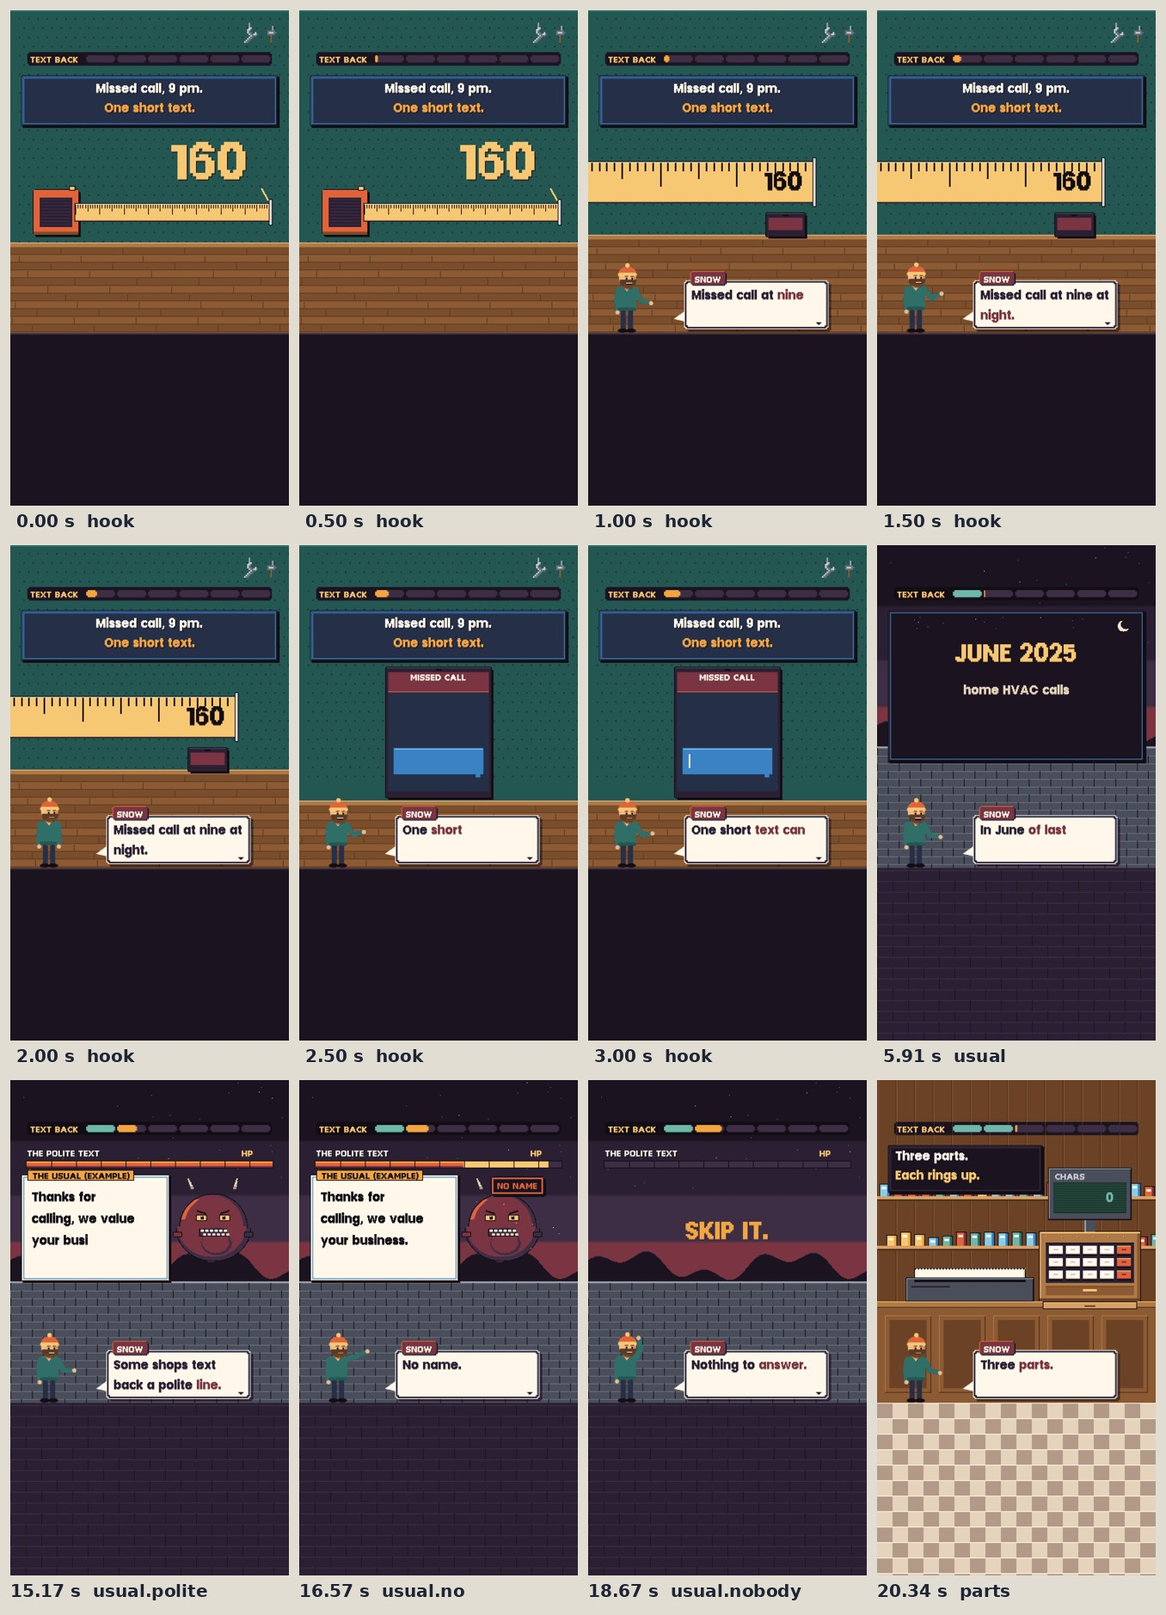
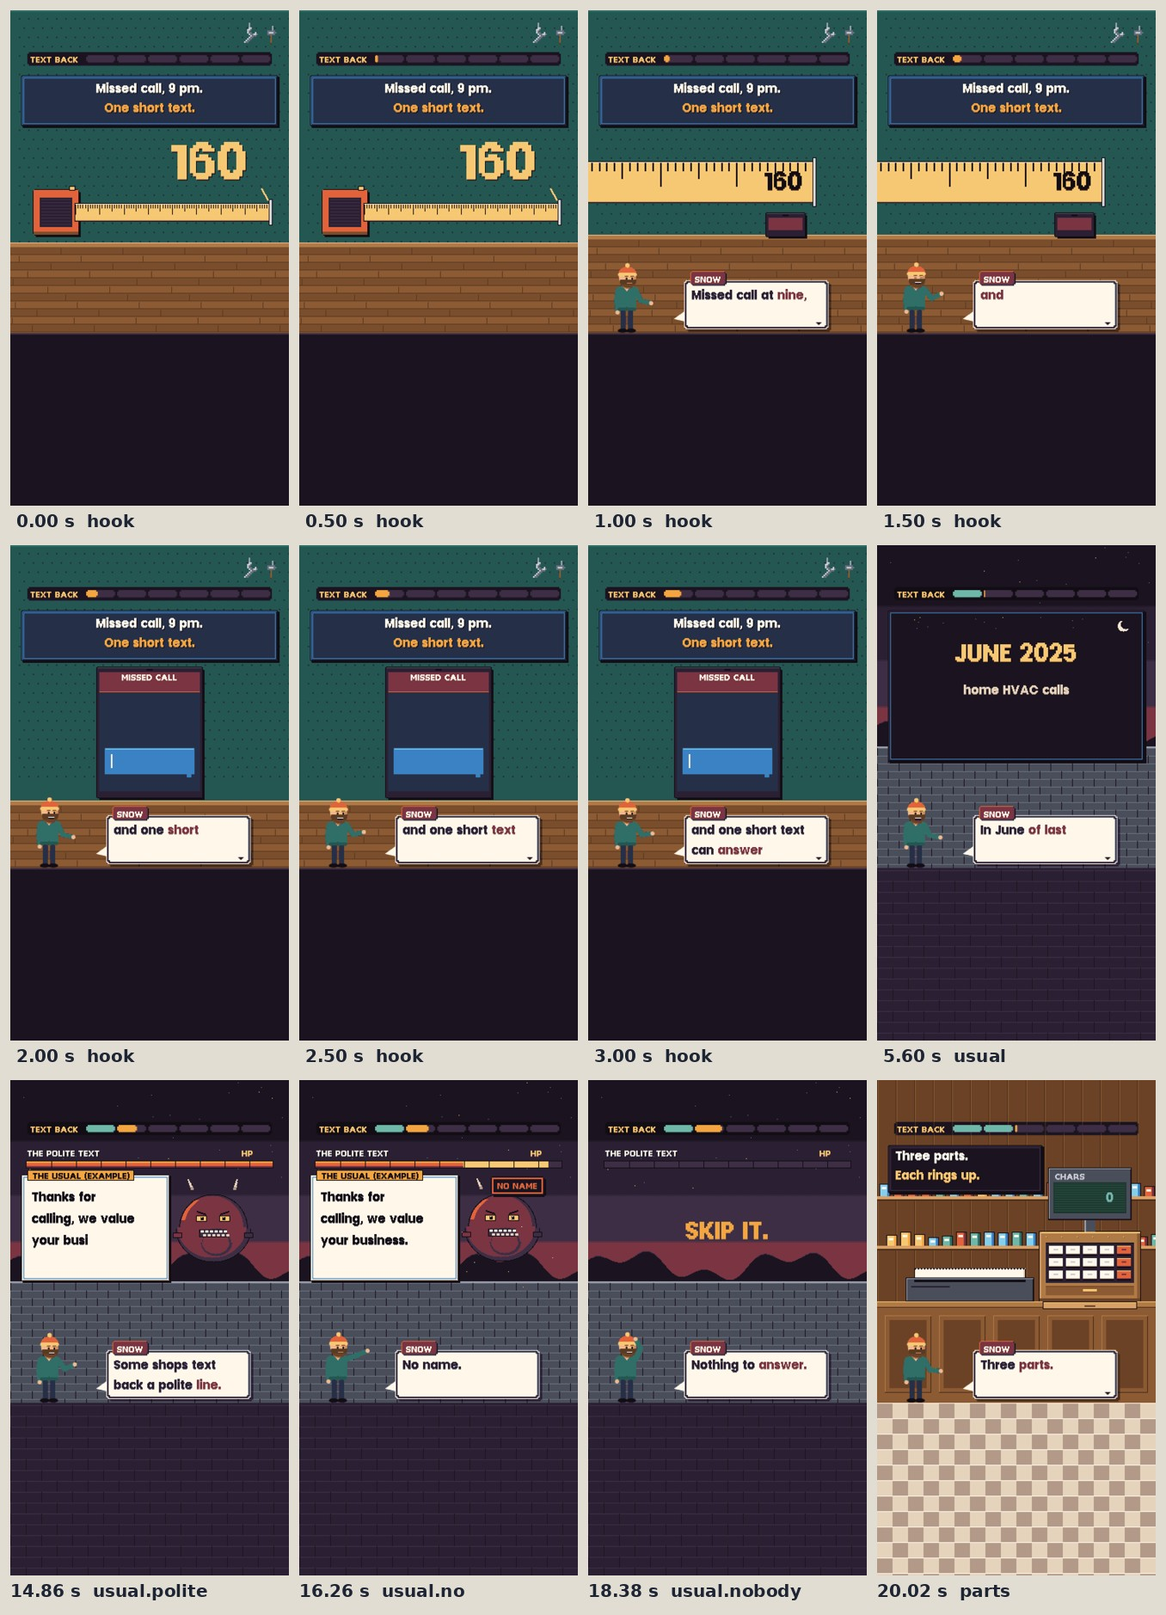
Studio: missed-call-text r4 script (render buyer gate: C1 stake, sourced from ServiceTitan; script gates r4 PASS); re-voice takes 2, 3, 6; lint WARN for late accents (IMPROVE 00a-3)
Claude-Session: https://claude.ai/code/session_01XMn4eLDH9uKaFbymFB5siE

diff --git a/video/studio/videos/2026-11-12-missed-call-text/03_cues/cues.js b/video/studio/videos/2026-11-12-missed-call-text/03_cues/cues.js
@@ -1,1 +1,1 @@
-window.CUES = {"schema": "pnf.studio.cues.v1", "source": "whisper medium.en int8, re-spelled from script.md", "music": {"id": "rooms", "level": 0.16, "tune": "bounce"}, "duration": 54.775, "cues": [{"id": "hook", "level": 0, "quote": "Missed call at nine", "sfx": "pop", "shift": 0.0, "pin": null, "text": "Three shots. Cover, frame one, host and dialog box hidden: our own workbench in daylight, a tape measure pulled out across it, the blade's numbers big, the gold end hook resting on the 160 mark; one focal object, the hero number \"160\" above the tape; plate \"Missed call, 9 pm.\" / \"One short text.\", chip \"MISSED-CALL TEXT\". By 0.8 s cut in close on the tape's hook at 160 (the blade's ticks big, a missed-call phone lying on the bench beside it); Snow and the dialog box come in. On \"short\" cut to the third shot: the phone close up, MISSED CALL on its screen, a blank text bubble with a cursor and \"0 / 160\" under it.", "t": 0.0, "word": 0, "end": 5.309}, {"id": "usual", "level": 0, "quote": "In June of last", "sfx": "whoosh", "shift": 0.0, "pin": null, "text": "The boss arena (r2; was street) under a night panel: ABOUT 1 IN 7 lands big on \"about\", seven phones pop in one a beat, the seventh rings red on \"after\" with \"came after hours\"; source tag \"Source: ServiceTitan, June 2025\" while it is said. On \"Some shops\" the panel lifts away: THE POLITE TEXT is the boss, our cream window over its menu types the usual paragraph. EXAMPLE tag.", "t": 5.309, "word": 14, "end": 19.735}, {"id": "usual.polite", "level": 1, "quote": "a polite line.", "sfx": "blip", "shift": 0.0, "pin": null, "text": "The paragraph finishes: \"Thanks for calling, we value your business.\"", "t": 14.569, "word": 38, "end": 15.969}, {"id": "usual.no", "level": 1, "quote": "No name. No question.", "sfx": "stamp", "shift": 0.0, "pin": null, "text": "NO NAME hits the boss and stamps on \"name\"; NO QUESTION hits and stamps on \"question\".", "t": 15.969, "word": 41, "end": 18.069}, {"id": "usual.nobody", "level": 1, "quote": "Nothing to answer.", "sfx": "tick", "shift": 0.0, "pin": null, "text": "The last hit on \"answer\": the boss breaks into pixels and SKIP IT. stamps in; Snow waves.", "t": 18.069, "word": 45, "end": 19.735}, {"id": "parts", "level": 0, "quote": "Three parts. Who you", "sfx": "whoosh", "shift": 0.0, "pin": null, "text": "The register set: WHO 29 rings on \"Who\", SORRY 26 on \"Sorry\", ASK 47 on \"question\", CHARS 102 prints as the total; the plate says \"One question / to text back.\"", "t": 19.735, "word": 48, "end": 27.369}, {"id": "copy", "level": 0, "quote": "Hi, this is Sam", "sfx": "chime", "shift": 0.0, "pin": null, "text": "The text as an ITEM GET window (kit k.itemGet; the chime is its fanfare), EXAMPLE: \"Hi, this is Sam the plumber. Sorry I missed your call. What do you need fixed, and when works for you?\" Read aloud over the card: each part gets its slot colour bar as it is read; the counter under it counts up to 102 / 160, the tape strip fills to 102 under the 160 mark.", "t": 27.369, "word": 67, "end": 34.037}, {"id": "proof", "level": 0, "quote": "Twilio says one plain", "sfx": "whoosh", "shift": 0.0, "pin": null, "text": "The scores set, title CHARS PER TEXT: row PLAIN 160 lands on \"plain\". Source tag up top while it is said: \"Twilio docs: How long can a message be?\".", "t": 34.037, "word": 88, "end": 44.075}, {"id": "proof.emoji", "level": 1, "quote": "One emoji drops it", "sfx": "tick", "shift": 0.0, "pin": null, "text": "Row EMOJI 70 lands in red; row CURLY 70 joins after \"seventy\" (the caption explains curly quotes).", "t": 38.057, "word": 98, "end": 40.217}, {"id": "proof.split", "level": 1, "quote": "Past that, it splits,", "sfx": "stamp", "shift": 0.0, "pin": null, "text": "Under the table: \"Sam's text plus an emoji:\" and \"2 PIECES, 2 BILLS\" stamps on \"splits\".", "t": 40.217, "word": 104, "end": 44.075}, {"id": "button", "level": 0, "quote": "Tonight, put yours in", "sfx": "whoosh", "shift": 0.0, "pin": null, "text": "Back on the workbench, the tape out to 160, the clean text's 102 marked on the blade in teal. Card: \"Tonight: put yours / in your auto-reply.\"", "t": 44.075, "word": 113, "end": 54.775}, {"id": "button.rule", "level": 1, "quote": "Keep it short and", "sfx": "sting", "shift": 0.0, "pin": null, "text": "The rule lands in gold: \"Short and plain. / Under 160.\" Snow waves. Then the end card with the send line: \"Send this to whoever answers your phones.\"", "t": 49.535, "word": 126, "end": 54.775}]};
+window.CUES = {"schema": "pnf.studio.cues.v1", "source": "whisper medium.en int8, re-spelled from script.md", "music": {"id": "rooms", "level": 0.16, "tune": "bounce"}, "duration": 54.462, "cues": [{"id": "hook", "level": 0, "quote": "Missed call at nine,", "sfx": "pop", "shift": 0.0, "pin": null, "text": "Three shots. Cover, frame one, host and dialog box hidden: our own workbench in daylight, a tape measure pulled out across it, the blade's numbers big, the gold end hook resting on the 160 mark; one focal object, the hero number \"160\" above the tape; plate \"Missed call, 9 pm.\" / \"One short text.\", chip \"MISSED-CALL TEXT\". By 0.8 s cut in close on the tape's hook at 160 (the blade's ticks big, a missed-call phone lying on the bench beside it); Snow and the dialog box come in. On \"short\" cut to the third shot: the phone close up, MISSED CALL on its screen, a blank text bubble with a cursor and \"0 / 160\" under it.", "t": 0.0, "word": 0, "end": 4.996}, {"id": "usual", "level": 0, "quote": "In June of last", "sfx": "whoosh", "shift": 0.0, "pin": null, "text": "The boss arena (r2; was street) under a night panel: ABOUT 1 IN 7 lands big on \"about\", seven phones pop in one a beat, the seventh rings red on \"after\" with \"came after hours\"; source tag \"Source: ServiceTitan, June 2025\" while it is said. On \"Some shops\" the panel lifts away: THE POLITE TEXT is the boss, our cream window over its menu types the usual paragraph. EXAMPLE tag.", "t": 4.996, "word": 13, "end": 19.422}, {"id": "usual.polite", "level": 1, "quote": "a polite line.", "sfx": "blip", "shift": 0.0, "pin": null, "text": "The paragraph finishes: \"Thanks for calling, we value your business.\"", "t": 14.256, "word": 37, "end": 15.656}, {"id": "usual.no", "level": 1, "quote": "No name. No question.", "sfx": "stamp", "shift": 0.0, "pin": null, "text": "NO NAME hits the boss and stamps on \"name\"; NO QUESTION hits and stamps on \"question\".", "t": 15.656, "word": 40, "end": 17.776}, {"id": "usual.nobody", "level": 1, "quote": "Nothing to answer.", "sfx": "tick", "shift": 0.0, "pin": null, "text": "The last hit on \"answer\": the boss breaks into pixels and SKIP IT. stamps in; Snow waves.", "t": 17.776, "word": 44, "end": 19.422}, {"id": "parts", "level": 0, "quote": "Three parts. Who you", "sfx": "whoosh", "shift": 0.0, "pin": null, "text": "The register set: WHO 29 rings on \"Who\", SORRY 26 on \"Sorry\", ASK 47 on \"question\", CHARS 102 prints as the total; the plate says \"One question / to text back.\"", "t": 19.422, "word": 47, "end": 27.056}, {"id": "copy", "level": 0, "quote": "Hi, this is Sam", "sfx": "chime", "shift": 0.0, "pin": null, "text": "The text as an ITEM GET window (kit k.itemGet; the chime is its fanfare), EXAMPLE: \"Hi, this is Sam the plumber. Sorry I missed your call. What do you need fixed, and when works for you?\" Read aloud over the card: each part gets its slot colour bar as it is read; the counter under it counts up to 102 / 160, the tape strip fills to 102 under the 160 mark.", "t": 27.056, "word": 66, "end": 33.724}, {"id": "proof", "level": 0, "quote": "Twilio says one plain", "sfx": "whoosh", "shift": 0.0, "pin": null, "text": "The scores set, title CHARS PER TEXT: row PLAIN 160 lands on \"plain\". Source tag up top while it is said: \"Twilio docs: How long can a message be?\".", "t": 33.724, "word": 87, "end": 43.762}, {"id": "proof.emoji", "level": 1, "quote": "One emoji drops it", "sfx": "tick", "shift": 0.0, "pin": null, "text": "Row EMOJI 70 lands in red; row CURLY 70 joins after \"seventy\" (the caption explains curly quotes).", "t": 37.744, "word": 97, "end": 39.904}, {"id": "proof.split", "level": 1, "quote": "Past that, it splits,", "sfx": "stamp", "shift": 0.0, "pin": null, "text": "Under the table: \"Sam's text plus an emoji:\" and \"2 PIECES, 2 BILLS\" stamps on \"splits\".", "t": 39.904, "word": 103, "end": 43.762}, {"id": "button", "level": 0, "quote": "Tonight, put yours in", "sfx": "whoosh", "shift": 0.0, "pin": null, "text": "Back on the workbench, the tape out to 160, the clean text's 102 marked on the blade in teal. Card: \"Tonight: put yours / in your auto-reply.\"", "t": 43.762, "word": 112, "end": 54.462}, {"id": "button.rule", "level": 1, "quote": "Keep it short and", "sfx": "sting", "shift": 0.0, "pin": null, "text": "The rule lands in gold: \"Short and plain. / Under 160.\" Snow waves. Then the end card with the send line: \"Send this to whoever answers your phones.\"", "t": 49.222, "word": 125, "end": 54.462}]};

diff --git a/video/studio/videos/2026-11-12-missed-call-text/02_transcript/mouth.js b/video/studio/videos/2026-11-12-missed-call-text/02_transcript/mouth.js
@@ -1,1 +1,1 @@
[2 lines of base64/hex data omitted]

diff --git a/video/studio/videos/2026-11-12-missed-call-text/04_scene/scene.js b/video/studio/videos/2026-11-12-missed-call-text/04_scene/scene.js
@@ -310,8 +310,10 @@ window.SCENE = {
       if (run >= 1) k.slam(n.plain.shown, 920, 474, tSixty, {size: 66, color: GOLD, align: 'right', from: 0.4, drop: INK, glint: false});
       else if (T >= t0 + 0.7) k.text(n.plain.shown, 920, 474, {size: 66, color: CREAM, align: 'right'});
       d.win(14, 84, 332, 70, {base: '#1B1420', hi: '#7A3442', lo: INK, rule: ORANGE});
-      if (T < tKeep) { k.slam('Tonight: put yours', 540, 280, t0 + 0.1, {size: 66, color: CREAM, align: 'center', from: 0.4, drop: INK, glint: false}); k.slam('in your auto-reply.', 540, 358, t0 + 0.16, {size: 66, color: ORANGE, align: 'center', from: 0.4, drop: INK, glint: false}); }
-      else { k.slam('Short and plain.', 540, 280, tKeep, {size: 66, color: CREAM, align: 'center', from: 0.4, drop: INK, glint: false}); k.slam(`Under ${n.plain.shown}.`, 540, 358, tKeep + 0.1, {size: 66, color: GOLD, align: 'center', from: 0.4, drop: INK, glint: false}); k.sweep(540 - k.measure(`Under ${n.plain.shown}.`, {size: 66}) / 2, 432, k.measure(`Under ${n.plain.shown}.`, {size: 66}), 6, tKeep + 0.4, {color: 'accent'}); }
+      /* r3 (design r0, M6): the rule lands 0.6 s before "Keep" so it holds 2.8 s before the end card */
+      const tRule = tKeep - 0.6;
+      if (T < tRule) { k.slam('Tonight: put yours', 540, 280, t0 + 0.1, {size: 66, color: CREAM, align: 'center', from: 0.4, drop: INK, glint: false}); k.slam('in your auto-reply.', 540, 358, t0 + 0.16, {size: 66, color: ORANGE, align: 'center', from: 0.4, drop: INK, glint: false}); }
+      else { k.slam('Short and plain.', 540, 280, tRule, {size: 66, color: CREAM, align: 'center', from: 0.4, drop: INK, glint: false}); k.slam(`Under ${n.plain.shown}.`, 540, 358, tRule + 0.1, {size: 66, color: GOLD, align: 'center', from: 0.4, drop: INK, glint: false}); k.sweep(540 - k.measure(`Under ${n.plain.shown}.`, {size: 66}) / 2, 432, k.measure(`Under ${n.plain.shown}.`, {size: 66}), 6, tRule + 0.4, {color: 'accent'}); }
       return host(k, T >= tKeep + 0.8 ? 'wave' : (k.live('button') ? 'point' : null));
     },
   },

diff --git a/video/studio/anim.py b/video/studio/anim.py
@@ -2191,6 +2191,41 @@ def cmd_hook(slug):
 LABEL_FLOOR_PX = 36   # ink height in 1080-wide frame units; the design gate caps type at 4 under 36 px labels
 
 
+def accent_report(slug, first_seen, step=0.25):
+    """M3 (IMPROVE 00a-3): each scene text that shows a word the voice says near it (a 4+ letter word or a number) should
+    land 0.2 to 0.3 s before that word starts. Returns ([(text, word, lead)] for texts that show up a step or more after
+    the word began, count landing in time). lead = word start minus first shown; negative is late. Sampled at lint's step,
+    so a lead is good to about that step."""
+    wp = vdir(slug, "02_transcript", "words.json")
+    if not os.path.exists(wp):
+        return [], 0
+    wd = json.load(open(wp)); words = wd["words"] if isinstance(wd, dict) else wd
+    norm = lambda w: re.sub(r"[^a-z0-9]", "", str(w).lower())
+    spoken = [(norm(w["w"]), w["start"]) for w in words if norm(w["w"])]
+    late, ontime = [], 0
+    # a typed-in text shows as its growing prefixes: keep the whole text, timed from its first letters
+    full = {}
+    for s_, t0 in sorted(first_seen.items(), key=lambda kv: -len(kv[0])):
+        owner = next((f for f in full if f.startswith(s_)), None)
+        if owner:
+            full[owner] = min(full[owner], t0)
+        else:
+            full[s_] = t0
+    for s_, t0 in full.items():
+        toks = {norm(x) for x in re.split(r"[\s/,.:;!?()]+", s_)}
+        toks = {x for x in toks if len(x) >= 4 or x.isdigit()}
+        near = [(abs(st - t0), w, st) for w, st in spoken if w in toks and t0 - 3.0 <= st <= t0 + 1.0]
+        if not near:
+            continue
+        _, w, st = min(near)
+        lead = round(st - t0, 2)
+        if lead < -step - 1e-6:
+            late.append((s_, w, lead))
+        elif lead <= 0.6:
+            ontime += 1
+    return sorted(late, key=lambda x: x[2]), ontime
+
+
 def cmd_lint(slug, step=0.25):
     """The layout check in code, before a reviewer has to find it: every settled scene text inside the safe area
     (x 20 to 950, y 262 to 1250), not under the host, the dialog box or other text. Problems that last under 0.5 s
@@ -2204,7 +2239,7 @@ def cmd_lint(slug, step=0.25):
     hook, hook_bad = hook_report(slug, pg)   # before the world spy, on a clean page
     send_line = pg.evaluate("(window.SCENE && window.SCENE.sendLine) || ''") if is_modern(slug) else None
     pg.evaluate(WORLD_SPY)
-    t, worlds, steps, small = 0.0, {}, 0, {}
+    t, worlds, steps, small, first_seen = 0.0, {}, 0, {}, {}
     while t < cues["duration"]:
         bx, used = pg.evaluate(f"(() => {{ window.__boxes = []; window.__used = {{}}; drawAt({t:.3f}); const r = window.__boxes; window.__boxes = null; return [r, Object.keys(window.__used)]; }})()")
         steps += 1
@@ -2218,6 +2253,8 @@ def cmd_lint(slug, step=0.25):
             for o, name in [(h, "under the host") for h in host] + [(d, "under the dialog box") for d in dlg]:
                 if ov(x, o) > 0.08 * (x["x1"] - x["x0"]) * (x["y1"] - x["y0"]):
                     hits.setdefault((name, x["s"]), []).append(t)
+        for x in texts:   # M3 accent timing (IMPROVE 00a-3): when each scene text first shows
+            first_seen.setdefault(x["s"].strip(), t)
         for x in texts:   # the type floor (IMPROVE 00b): a label's tallest settled ink height, over the whole lesson
             k_ = x["s"].strip()[:40]
             small[k_] = max(small.get(k_, 0), round(x["y1"] - x["y0"]))
@@ -2245,6 +2282,10 @@ def cmd_lint(slug, step=0.25):
         for a0, a1 in runs:
             errors.append(f"ERROR lint {a0:5.2f} to {a1:5.2f} s: {kind}: {what[:70]}")
     print("hook: " + json.dumps(hook))
+    late, ontime = accent_report(slug, first_seen, step)
+    if late:   # a warning, not an ERROR (M3, _shared/standard.md): the design gate and render critic judge it
+        print(f"WARN lint accents: {len(late)} scene texts land after their spoken word (M3 wants 0.2 to 0.3 s before; "
+              f"{ontime} land in time): " + "; ".join(f"'{s_[:30]}' {lead:+.2f} s vs '{w_}'" for s_, w_, lead in late[:12]))
     small = {s_: h_ for s_, h_ in small.items() if h_ < LABEL_FLOOR_PX and any(c.isalnum() for c in s_)}
     if small:   # a warning, not an ERROR: lessons pinned before Oct 31 keep their labels; the design gate weighs them
         print(f"WARN lint type: {len(small)} scene labels under {LABEL_FLOOR_PX} px tall (IMPROVE 00b): "

diff --git a/video/studio/IMPROVE.md b/video/studio/IMPROVE.md
@@ -18,7 +18,7 @@ the top one still open before anything below.
 00a-2. Done Oct 31 (end-of-day run, k.itemGet). C3 save card as a game "ITEM GET" window: the copyable thing (text, setting path, checklist) in a menu window that
    slides in over 0.3 s (ease-out, whole pixels), a hand cursor bobbing 1 px at 4 fps down its lines (so it is never flat,
    M1), a short item fanfare, held 3 s or more. lsa-missed-calls had 0 saves at 2.7 h.
-00a-3. M3 accent words: the beat's key word slams on screen 0.2 to 0.3 s before it is spoken, from words.json timing
+00a-3. (Check done Nov 1, evening run: `lint` WARN accents; next: the scenes move each late text 0.2 to 0.3 s ahead of its word, then the WARN becomes an ERROR for new lessons.) M3 accent words: the beat's key word slams on screen 0.2 to 0.3 s before it is spoken, from words.json timing
    (replaces item 10 below).
 00a-4. M4 pixel-native travel and hits: rooms change by mosaic cross or a 4-step palette fade (never an alpha fade), a
    verdict stamp gets a 3-2-1 px screen shake over 8 frames, the camera pans in whole pixels with 2 to 3 parallax layers;
@@ -77,6 +77,15 @@ the top one still open before anything below.
 12. Visual: a seasonal touch per week (snow outside the half-built house in winter, leaves in fall).
 
 ## Done (newest first: date, item, what changed, proof)
+- 2026-11-01 (evening run of Oct 31, cloud): M3 accent check in `lint` (00a-3, first step). `accent_report` in anim.py
+  times when each scene text first shows (a typed-in text from its first letters) and finds the spoken word it carries
+  (a 4+ letter word or a number, within 3 s before to 1 s after); `lint` prints one WARN line naming every text that lands
+  a step (0.25 s) or more after its word, and how many land in time. A warning, not an ERROR, so pinned lessons keep
+  their place. Proof: lint on lesson 1 (first-reply): 2 late ('Homeowner' 2.49 s after the word, 'Can you quote a new
+  water heat...' 0.98 s), 17 in time (before the prefix grouping it listed 10, 8 of them the same typed lines); on
+  missed-call-text r3: 3 late, 17 in time; its scene's own accents (ASK on "question", the copy card's bars on each read
+  part, 2 PIECES, 2 BILLS on "splits") were moved onto their words this run. The 3 left are labels sharing the word
+  "text" or "emoji" with a line said earlier, not accents.
 - 2026-10-31 (end-of-day run, cloud): C3 save card as a game ITEM GET window (00a-2). New `k.itemGet` in _runtime/kit.js:
   the copyable thing in a cream menu window with a gold ITEM GET tab and an optional tag (EXAMPLE), sliding in from the
   right over 0.3 s on whole low-res pixels, a gold pointer that bobs 1 px at 4 fps and steps down a line every `step` s,

diff --git a/video/studio/videos/2026-11-12-missed-call-text/01_voice/script.md b/video/studio/videos/2026-11-12-missed-call-text/01_voice/script.md
@@ -2,12 +2,12 @@
 
 Missed call at nine, and one short text can answer it. How short?
 
-In June of last year, about one in seven calls to the home HVAC shops ServiceTitan tracked came after hours. Some shops text back a polite line. No name. No question. Nothing to answer.
+In June of last year, about one in seven calls to the home HVAC shops ServiceTitan tracked came after hours. It says many who hit voicemail move on to another shop. Some send a polite line. No name. No question. Nothing to answer.
 
-Three parts. Who you are. Sorry I missed your call. One question, so they have something to text back.
+Three parts. Who you are. Sorry I missed your call. One question, so they can text back.
 
 Hi, this is Sam the plumber. Sorry I missed your call. What do you need fixed, and when works for you?
 
 [matter-of-fact] Twilio says one plain text holds a hundred sixty characters. One emoji drops it to seventy. Past that, it splits, and Twilio bills each piece.
 
-[confident] Tonight, put yours in your missed-call auto-reply. No auto-reply yet? Set one up. Keep it short and plain, under a hundred sixty.
+[confident] Tonight, put yours in your missed-call auto-reply. Keep it short and plain, under a hundred sixty.

diff --git a/video/studio/videos/2026-11-12-missed-call-text/01_voice/brief.md b/video/studio/videos/2026-11-12-missed-call-text/01_voice/brief.md
@@ -58,6 +58,7 @@ Twilio's "How long can a message be?" docs page; every line in facts.json quoted
 | Claim, as said | Source | URL |
 |---|---|---|
 | About one in seven calls to home HVAC shops came after hours in June of last year | ServiceTitan, When Summer HVAC Demand Spikes, After-Hours Calls Do Too, Jun 3, 2026, read Oct 31, 2026 (14.1% in June 2025; Mon to Fri 8 to 5 is business hours; vendor cohort, not nationally representative) | https://www.servicetitan.com/toolbox/state-of-the-trades/trends/hvac-summer-after-hours-call-spike |
+| It (ServiceTitan) says many who hit voicemail move on to another shop | ServiceTitan, same page, read Nov 1, 2026: "many will immediately move on and search for another provider" (its statement, not a measured share) | https://www.servicetitan.com/toolbox/state-of-the-trades/trends/hvac-summer-after-hours-call-spike |
 | One plain text holds 160 characters | Twilio docs, How long can a message be?, read Oct 31, 2026 | https://www.twilio.com/docs/glossary/what-sms-character-limit |
 | One emoji drops the limit to 70 | same (UCS-2 switch; 70 per single segment) | same |
 | Curly quotes do it too | same (curly quotation marks are UCS-2; 160 to 70) | same |

diff --git a/video/studio/videos/2026-11-12-missed-call-text/01_voice/script-check.md b/video/studio/videos/2026-11-12-missed-call-text/01_voice/script-check.md
@@ -39,3 +39,8 @@ re-measured on the real words.json. The script gate should re-score it blind.
 - Script gates before voice (stages/01_voice step 3): buyer r2 PASS (stop, send, save yes), facts r2 0 mismatches in the
   script (its one FAIL was three captions' billing line, fixed to "Twilio bills each one").
 - Button: "Keep it short and plain, under a hundred sixty." echoes "short" from the drop-in.
+
+## r4 (Nov 1, evening run), after the render buyer gate's FAIL on C1 (no cost said)
+- Added the stake, sourced: "It says many who hit voicemail move on to another shop." (ServiceTitan's page, its statement,
+  not a measured share). Cut "No auto-reply yet? Set one up." and "have something to" to stay at 135 words.
+- Script gates before voice: buyer r4 PASS (stop, send, save yes; C1 yes), facts r4 PASS 0 mismatches.
